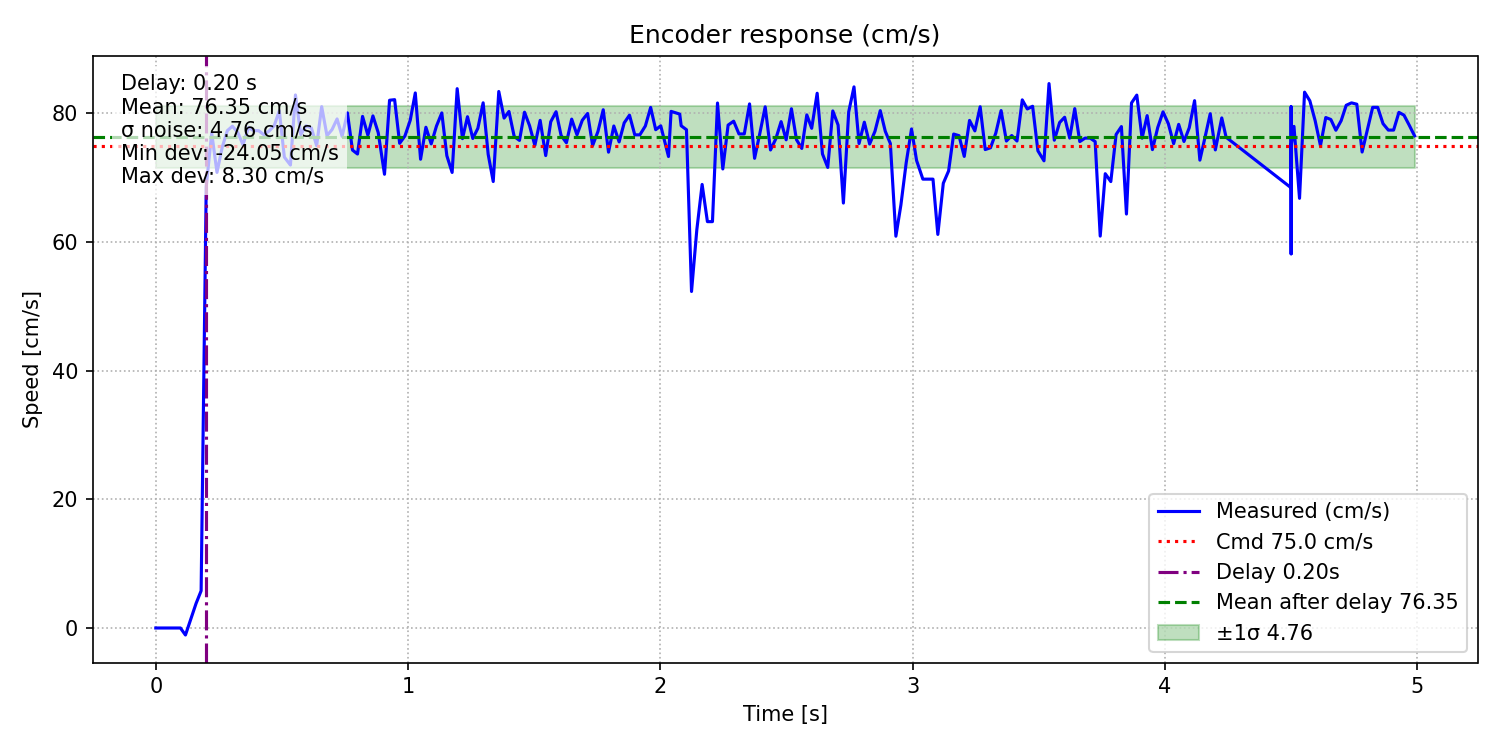
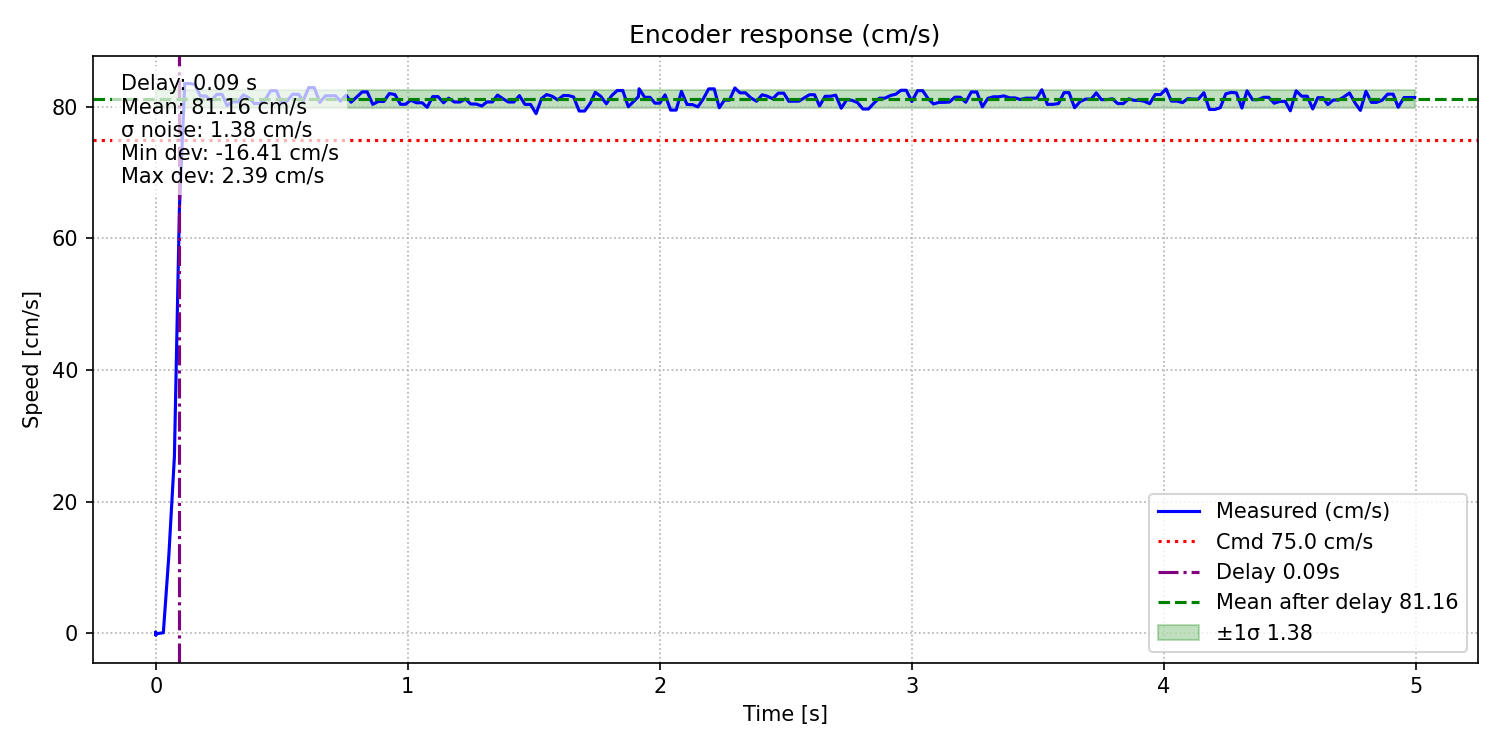
encoder

diff --git a/Embedded_Platform/Embedded_2024/source/periodics/encoder.cpp b/Embedded_Platform/Embedded_2024/source/periodics/encoder.cpp
@@ -201,38 +201,45 @@ float CEncoder::readAngularSpeedKf()
     /* ───────────── 4. Kalman predict ───────── */
     _kf.predict(dt);
 
-    /* ───────────── 4a. step‑size glitch gate ─ */
-    constexpr float STEP_LIM = 15.0f;   // max is 7.5 for 50cm/s at 1000 Hz
-    static int  overLimitCnt = 0;       // counts consecutive big steps
-    static int  overLimitCntThreshold = 3; // threshold for accepting big steps
+    const float omega_cmd = _speedCommand * DEGREE_PER_CM;
+    static float prevGoodRaw = 0.0f;      // last rawDeg that was actually accepted
+    static int   overLimitCnt  = 0;       // consecutive out‐of‐band counts
+    constexpr int OVERLIMIT_THRESHOLD = 30;
 
-    float stepDiff = rawDeg - _prevGoodRaw;
-    bool accept;
-    if (fabsf(stepDiff) <= STEP_LIM) {               // small step
+    // 4a–3. compute “measured instantaneous speed” (deg/s):
+    float deltaDeg = rawDeg - prevGoodRaw;       // can be ±360 if wrap, but prevGoodRaw is already unwrapped
+    // (no need to re‐unwrap deltaDeg here, because prevGoodRaw is the unwrapped raw from last accept)
+    float omega_meas = deltaDeg / dt;            // deg/s
+
+    // 4a–4. decide if this sample is “too far” from commanded
+    float diff_speed = omega_meas - omega_cmd;   // deg/s difference
+    bool  accept;
+    if (fabsf(diff_speed) <= 1.3f * omega_cmd) {
+        //
+        // If the measured speed is within ±(1.3×command) of the cmd,
+        // we treat it as a “small”/plausible change. You can tighten this band
+        // if you want a stricter gate.
+        //
         accept = true;
-    } else if (!lastRejected) {                      // first big step
-        accept = false;
-        lastRejected = true;
-    } else {                                         // second big step in a row
-        accept = true;
-        lastRejected = false;
+        overLimitCnt = 0;
+    } else {
+        // A “big” jump. Only accept if we see OVERLIMIT_THRESHOLD in a row.
+        overLimitCnt++;
+        if (overLimitCnt >= OVERLIMIT_THRESHOLD) {
+            accept = true;            // third consecutive “big” jump
+            overLimitCnt = 0;         // reset counter
+        } else {
+            accept = false;           // treat as glitch
+        }
     }
+
     if (accept) {
+        // 4a–5. update Kalman with this measurement
         _kf.update(measDeg);
-        _prevGoodRaw = rawDeg;                 // <- update only on accept
-        lastRejected = false;
+        prevGoodRaw = rawDeg;        // remember as last good sample
     }
 
-    /* ───── 4a. innovation‑based glitch gate ────────────────────── */
-    // float innov = measDeg - _kf.ang;                     // prediction residual
-    // innov -= 360.0f * std::round(innov / 360.0f);        // wrap to (‑180, +180]
-
-    // constexpr float INNOV_LIM = 45.0f;                   // 3 ms of max speed
-
-    // if (fabsf(innov) <= INNOV_LIM) {                     // plausible ?
-    //     _kf.update(measDeg);                             // yes -> use it
-    // }
-
+    // no check
     // _kf.update(measDeg);
 
     /* ───────────── 5. result ───────────────── */
@@ -246,8 +253,8 @@ float CEncoder::readAngularSpeedKf()
         accum = 0.0f;
         char buf[48];
         int n = std::snprintf(buf, sizeof(buf),
-                              "@5:%.3f;;\r\n",
-                              speedDegPerSec / DEGREE_PER_CM);
+                              "@5:%.3f;%.3f;;\r\n",
+                              speedDegPerSec / DEGREE_PER_CM, _speedCommand);
         if (n > 0 && (size_t)n < sizeof(buf)) m_serial.write(buf, n);
         lastPublishedSpeed = speedDegPerSec;
     }
@@ -359,8 +366,8 @@ float CEncoder::getLinearAcceleration() {
 }
 
 void CEncoder::_run() {
-    // readAngularSpeedKf();
-    readAngularSpeed();
+    readAngularSpeedKf();
+    // readAngularSpeed();
     
     // displacementDeg = getTotalDisplacementDegrees(); 
 }

diff --git a/Embedded_Platform/Embedded_2024/scripts/encoder_noise_test_cmd.py b/Embedded_Platform/Embedded_2024/scripts/encoder_noise_test_cmd.py
@@ -11,8 +11,9 @@ from pathlib import Path
 import serial
 
 # ────────────────────────────────────────────────────────────────────────────────
-# ENC_PATTERN = re.compile(r"\[Encoder\]\s+angle\s*=\s*([-0-9.]+)°,\s*speed\s*=\s*([-0-9.]+)°/s")
-ENC_PATTERN = re.compile(r"@5:([-0-9.]+);;")
+# ENC_PATTERN = re.compile(r"@5:([-0-9.]+);;")
+ENC_PATTERN = re.compile(r"@5:([-0-9.]+);([-0-9.]+);;")
+
 
 MOTOR_ID = 11
 CM_TO_DEG = -146.0  # deg/s per cm/s (negative to fix sign)
@@ -36,6 +37,7 @@ def run_test(port: str, baud: int, speed_cm_s: float, duration: float, steer: fl
 
     times: list[float] = []
     speeds_cm: list[float] = []
+    cmd_speeds_cm: list[float] = []
 
     print(f"Running {duration}s at {speed_cm_s:.2f} cm/s …")
     try:
@@ -56,8 +58,9 @@ def run_test(port: str, baud: int, speed_cm_s: float, duration: float, steer: fl
                 if not m:
                     continue
                 speed_cm = float(m.group(1))
-                last_angle = 0
+                cmd_speed_cm = float(m.group(2))
                 speeds_cm.append(speed_cm)
+                cmd_speeds_cm.append(cmd_speed_cm)
                 times.append(elapsed)
 
             if int(elapsed) % 1 == 0:
@@ -74,7 +77,7 @@ def run_test(port: str, baud: int, speed_cm_s: float, duration: float, steer: fl
         ser.close()
         print("\nSerial closed.")
 
-    return times, speeds_cm
+    return times, speeds_cm, cmd_speeds_cm
 
 # ────────────────────────────────────────────────────────────────────────────────
 
@@ -120,10 +123,11 @@ def compute_stats(times: list[float], speeds: list[float], start_time: float) ->
 
 # ────────────────────────────────────────────────────────────────────────────────
 
-def save_csv(times: list[float], speeds: list[float], path: Path) -> None:
+def save_csv(times: list[float], speeds: list[float], cmds: list[float], path: Path) -> None:
     with open(path, "w", newline="") as f:
-        csv.writer(f).writerows(zip(["time_s", "enc_speed_cm_s"], []))
-        csv.writer(f).writerows(zip(times, speeds))
+        writer = csv.writer(f)
+        writer.writerow(["time_s", "enc_speed_cm_s", "cmd_speed_cm_s"])
+        writer.writerows(zip(times, speeds, cmds))
     print(f"CSV saved ➜ {path}")
 
 
@@ -168,12 +172,12 @@ def main() -> None:
     ap.add_argument("--cmd", type=float, default=50, help="Commanded speed [cm/s]")
     ap.add_argument("--steer", type=float, default=0, help="Steering angle [deg]")
     ap.add_argument("--dur", type=float, default=5, help="Duration [s]")
-    ap.add_argument("--csv", type=Path, help="Save raw data to CSV")
+    ap.add_argument("--csv", action="store_true", help="Save data to CSV file")
     ap.add_argument("--port", default="/dev/ttyACM0")
     ap.add_argument("--baud", type=int, default=115200)
     args = ap.parse_args()
 
-    times, speeds = run_test(args.port, args.baud, args.cmd, args.dur, args.steer)
+    times, speeds, cmd_speeds = run_test(args.port, args.baud, args.cmd, args.dur, args.steer)
     if len(speeds) < 3:
         print("Insufficient samples.")
         return
@@ -187,10 +191,10 @@ def main() -> None:
     print(f"Min deviation         : {stats['min_dev']:.3f} cm/s")
     print(f"Max deviation         : {stats['max_dev']:.3f} cm/s")
 
-    if args.csv:
-        save_csv(times, speeds, args.csv)
-
     script_dir = Path(__file__).parent
+    if args.csv:
+        save_csv(times, speeds, cmd_speeds, script_dir / "data" / f"encoder_noise_data_v{int(args.cmd)}_d{int(args.dur)}.csv")
+
     save_plot(times, speeds, args.cmd, delay, stats, script_dir / "plots" / f"encoder_noise_plot_v{int(args.cmd)}_d{int(args.dur)}.png")
 
     # stop motor

diff --git a/src/control/include/PathManager.h b/src/control/include/PathManager.h
@@ -483,7 +483,7 @@ inline int find_next_waypoint(int& output_target, const Eigen::Vector3d& i_curre
 			closest_waypoint_index = find_closest_waypoint(i_current_state, min_index, max_index);
 		}
 
-		std::cout << "PathManager:: find_next_waypoint_count = " << find_next_waypoint_count << std::endl;
+		// std::cout << "PathManager:: find_next_waypoint_count = " << find_next_waypoint_count << std::endl;
 		if (find_next_waypoint_count >= 8) {
 			target = closest_waypoint_index + lookahead;
 			// std::cout << "PathManager::find_next_waypoint(): count >= 8, setting target to closest waypoint index + lookahead: " << target << std::endl;

diff --git a/src/control/include/Sensing.h b/src/control/include/Sensing.h
@@ -159,7 +159,8 @@ inline void encoderCallback(const utils::encoder::ConstPtr& msg)
 inline void reset_yaw(double new_yaw) {
     while(new_yaw < -M_PI) new_yaw += 2 * M_PI;
     while(new_yaw >= M_PI) new_yaw -= 2 * M_PI;
-    if (Tunable::real) {
+    // if (Tunable::real) {
+    if (false) {
         std::stringstream strs;
         char buff[100];
         snprintf(buff, sizeof(buff), "%.3f;;\r\n", 

diff --git a/Embedded_Platform/Embedded_2024/source/drivers/speedingmotor.cpp b/Embedded_Platform/Embedded_2024/source/drivers/speedingmotor.cpp
@@ -72,6 +72,7 @@ namespace drivers{
         constexpr auto  STEP_TIME = 5ms;
 
         float diff = target - m_currentSpeed;    // remaining error (+/‑)
+        m_encoder._speedCommand = target; // set the speed command for the encoder
         while (true)         // ≈ dead‑zone
         {
             float step = (diff > 0 ? 1 : -1) *

diff --git a/Embedded_Platform/Embedded_2024/include/periodics/encoder.hpp b/Embedded_Platform/Embedded_2024/include/periodics/encoder.hpp
@@ -65,6 +65,7 @@ namespace periodics {
 
 class CEncoder : public utils::CTask {
 public:
+    float _speedCommand = 0.0f;  ///< speed command for the encoder
     /**
      * @brief Constructor for PWM-based AS5048A encoder.
      * @param f_periodTicks Task period in ticks

diff --git a/Embedded_Platform/Embedded_2024/source/main.cpp b/Embedded_Platform/Embedded_2024/source/main.cpp
@@ -63,7 +63,7 @@ void imuTask() {
 void encoderTask() {
     while (true) {
         g_encoder.run();
-        ThisThread::sleep_for(1ms);
+        ThisThread::sleep_for(2ms);
     }
 }
 void totalVoltageTask() {
